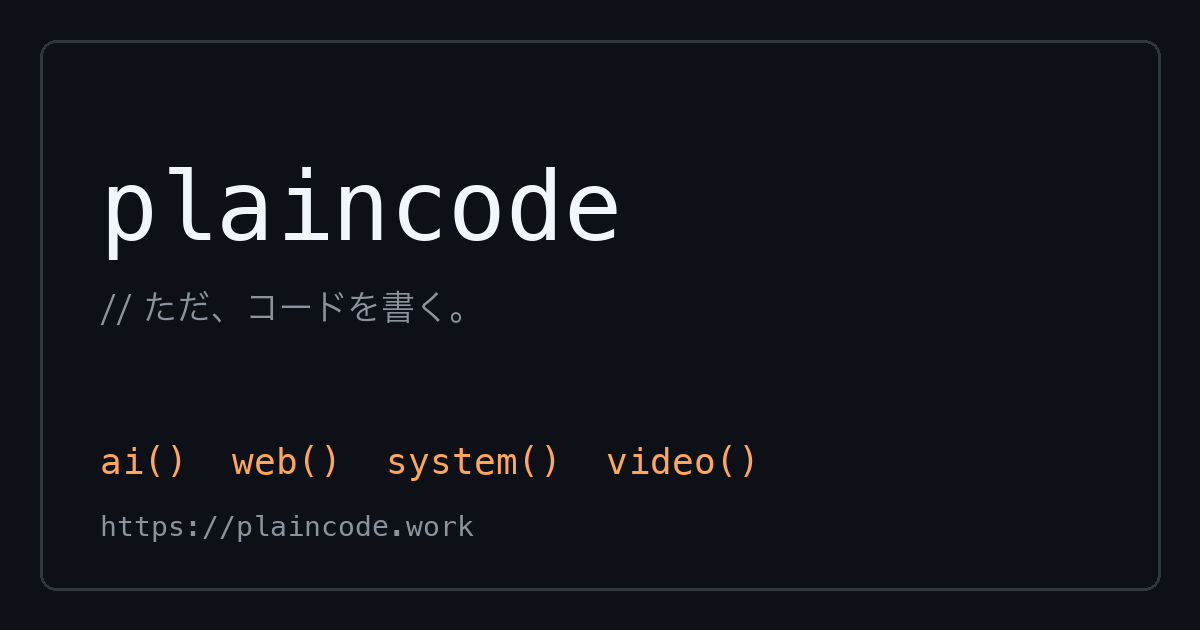
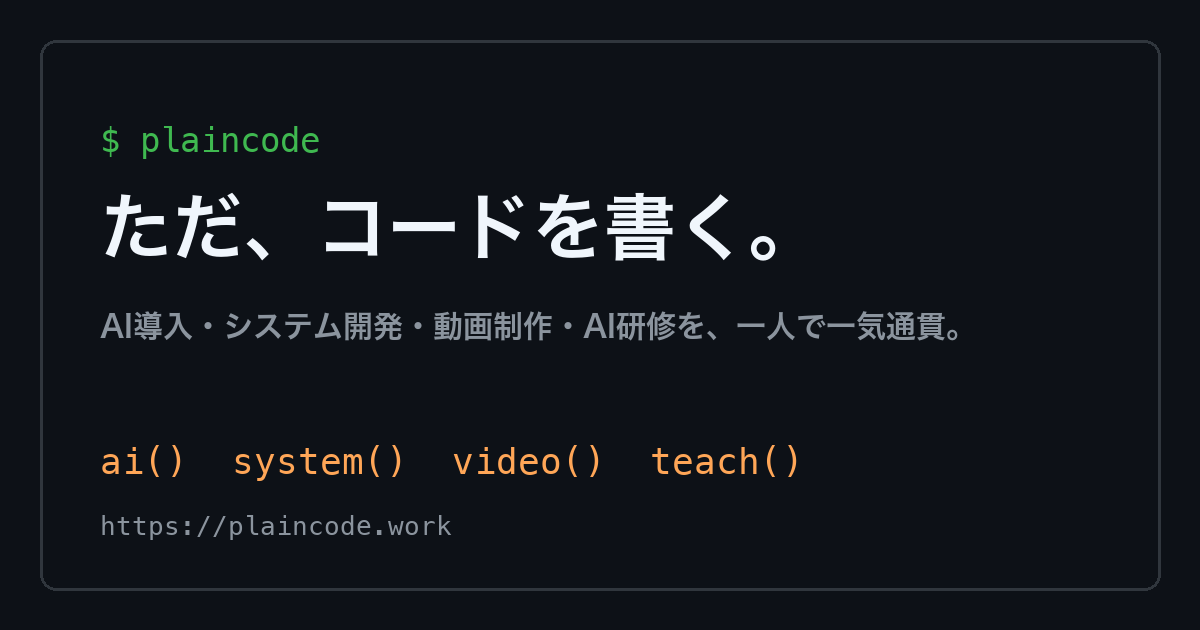
実サービス内容で全面改稿・デザイン刷新

diff --git a/index.html b/index.html
@@ -3,102 +3,247 @@
 <head>
 <meta charset="utf-8">
 <meta name="viewport" content="width=device-width, initial-scale=1">
-<title>plaincode</title>
-<meta name="description" content="plaincode は、色のないコーディングをします。流行りの技術ではなく、あなたの課題に最も素直な実装を選びます。AI導入支援・HP制作・システム開発・動画制作。">
+<title>plaincode — AI導入・システム開発・動画制作・AI研修</title>
+<meta name="description" content="plaincode（プレインコード）は、AI導入支援・Webサイト/業務システム開発・動画制作・AI研修を一人で一気通貫で行う東京のエンジニアリングスタジオです。流行りではなく、課題に最も素直な実装を選びます。">
 <link rel="canonical" href="https://plaincode.work/">
 <link rel="icon" href="/favicon.svg" type="image/svg+xml">
 <meta property="og:type" content="website">
-<meta property="og:title" content="plaincode">
-<meta property="og:description" content="色のないコーディングをします。">
+<meta property="og:title" content="plaincode — ただ、コードを書く。">
+<meta property="og:description" content="AI導入・システム開発・動画制作・AI研修。作る・売る・教えるを一人で一気通貫。">
 <meta property="og:url" content="https://plaincode.work/">
 <meta property="og:image" content="https://plaincode.work/og.png">
-<meta name="twitter:card" content="summary">
+<meta name="twitter:card" content="summary_large_image">
 <meta name="twitter:site" content="@masakundayo1994">
+<link rel="preconnect" href="https://fonts.googleapis.com">
+<link rel="preconnect" href="https://fonts.gstatic.com" crossorigin>
+<link href="https://fonts.googleapis.com/css2?family=JetBrains+Mono:wght@400;500&family=Noto+Sans+JP:wght@400;500;700&display=swap" rel="stylesheet">
 <style>
 :root{
-  --bg:#ffffff;--fg:#111111;--muted:#6b6b6b;--line:#e5e5e5;--accent:#111111;
-}
-@media (prefers-color-scheme:dark){
-  :root{--bg:#0d1117;--fg:#c9d1d9;--muted:#8b949e;--line:#30363d;--accent:#f0f6fc;}
+  --bg:#0d1117;--bg2:#161b22;--fg:#e6edf3;--muted:#8b949e;--line:#30363d;
+  --green:#3fb950;--orange:#ffa657;--blue:#58a6ff;
+  --mono:"JetBrains Mono",ui-monospace,Menlo,monospace;
+  --sans:"Noto Sans JP",system-ui,-apple-system,sans-serif;
 }
 *{box-sizing:border-box;margin:0;padding:0}
-html{font-size:16px;-webkit-text-size-adjust:100%}
-body{
-  background:var(--bg);color:var(--fg);
-  font-family:ui-monospace,"SF Mono","JetBrains Mono",Menlo,Consolas,monospace;
-  line-height:1.8;
-  padding:0 16px;
-}
-main{max-width:640px;margin:0 auto;padding:12vh 0 8vh}
-header h1{font-size:1rem;font-weight:400;letter-spacing:.02em}
-header h1 span{color:var(--muted)}
-.lead{margin-top:3rem;font-size:1.05rem}
-.lead p{margin-bottom:1.2rem}
-section{margin-top:4rem;padding-top:2rem;border-top:1px solid var(--line)}
-h2{font-size:.85rem;font-weight:400;color:var(--muted);margin-bottom:1.2rem}
-h2::before{content:"// "}
-pre{white-space:pre;overflow-x:auto;font-size:.95rem;line-height:1.7}
-.k{color:var(--muted)}
-ul{list-style:none}
-li{margin-bottom:.4rem}
-a{color:var(--fg);text-decoration:underline;text-decoration-color:var(--line);text-underline-offset:.25em}
-a:hover{text-decoration-color:var(--fg)}
-dl{display:grid;grid-template-columns:8em 1fr;row-gap:.4rem}
-dt{color:var(--muted)}
-footer{margin-top:5rem;font-size:.8rem;color:var(--muted)}
-@media (max-width:480px){dl{grid-template-columns:1fr}dt{margin-top:.6rem}}
+html{scroll-behavior:smooth;-webkit-text-size-adjust:100%}
+body{background:var(--bg);color:var(--fg);font-family:var(--sans);line-height:1.9;font-size:16px}
+a{color:inherit;text-decoration:none}
+.wrap{max-width:960px;margin:0 auto;padding:0 20px}
+.mono{font-family:var(--mono)}
+
+/* nav */
+nav{position:sticky;top:0;z-index:10;background:rgba(13,17,23,.85);backdrop-filter:blur(8px);border-bottom:1px solid var(--line)}
+nav .wrap{display:flex;align-items:center;justify-content:space-between;height:56px}
+nav .logo{font-family:var(--mono);font-weight:500;letter-spacing:.02em}
+nav .logo::after{content:"_";color:var(--green);animation:blink 1.2s steps(2) infinite}
+@keyframes blink{50%{opacity:0}}
+nav ul{display:flex;gap:22px;list-style:none;font-family:var(--mono);font-size:.82rem;color:var(--muted)}
+nav a:hover{color:var(--fg)}
+@media(max-width:600px){nav ul{display:none}}
+
+/* hero */
+.hero{padding:110px 0 90px;border-bottom:1px solid var(--line)}
+.hero .tag{font-family:var(--mono);color:var(--green);font-size:.85rem;margin-bottom:22px}
+.hero h1{font-family:var(--mono);font-weight:500;font-size:clamp(2.3rem,6vw,4rem);line-height:1.15;letter-spacing:-.01em}
+.hero h1 small{display:block;font-family:var(--sans);font-weight:400;font-size:clamp(1.05rem,2.4vw,1.4rem);color:var(--muted);margin-top:18px;letter-spacing:0}
+.hero p{max-width:600px;margin-top:34px;color:#c9d1d9}
+.hero .cta{display:inline-flex;align-items:center;gap:10px;margin-top:40px;padding:12px 20px;border:1px solid var(--line);border-radius:6px;font-family:var(--mono);font-size:.9rem;transition:.2s}
+.hero .cta:hover{border-color:var(--green);color:var(--green)}
+
+/* sections */
+section{padding:90px 0;border-bottom:1px solid var(--line)}
+.h2{font-family:var(--mono);font-size:.85rem;color:var(--muted);margin-bottom:14px}
+.h2::before{content:"// "}
+h2{font-size:clamp(1.5rem,3vw,2rem);font-weight:700;margin-bottom:40px;line-height:1.4}
+
+/* services */
+.grid{display:grid;grid-template-columns:repeat(2,1fr);gap:18px}
+@media(max-width:700px){.grid{grid-template-columns:1fr}}
+.card{background:var(--bg2);border:1px solid var(--line);border-radius:8px;padding:28px;transition:.2s}
+.card:hover{border-color:#484f58;transform:translateY(-2px)}
+.card .fn{font-family:var(--mono);font-size:.85rem;color:var(--orange);margin-bottom:10px}
+.card .fn span{color:var(--blue)}
+.card h3{font-size:1.15rem;font-weight:700;margin-bottom:12px}
+.card p{color:#c9d1d9;font-size:.95rem}
+.card ul{margin-top:14px;padding-left:0;list-style:none;font-size:.88rem;color:var(--muted)}
+.card li::before{content:"– ";color:var(--line)}
+
+/* approach */
+.steps{display:grid;grid-template-columns:repeat(3,1fr);gap:18px}
+@media(max-width:700px){.steps{grid-template-columns:1fr}}
+.step{padding:24px;border-left:2px solid var(--line)}
+.step .n{font-family:var(--mono);color:var(--green);font-size:.85rem;margin-bottom:8px}
+.step h3{font-size:1.05rem;margin-bottom:8px}
+.step p{color:var(--muted);font-size:.92rem}
+
+/* code block */
+pre{background:var(--bg2);border:1px solid var(--line);border-radius:8px;padding:24px;overflow-x:auto;font-family:var(--mono);font-size:.9rem;line-height:1.75;margin-top:40px}
+.c{color:var(--muted)}.k{color:#ff7b72}.t{color:var(--blue)}.s{color:#a5d6ff}
+
+/* facts */
+.facts{display:grid;grid-template-columns:repeat(4,1fr);gap:18px}
+@media(max-width:700px){.facts{grid-template-columns:repeat(2,1fr)}}
+.fact{padding:20px 0;border-top:1px solid var(--line)}
+.fact .v{font-family:var(--mono);font-size:1.7rem;color:var(--fg)}
+.fact .v em{font-style:normal;color:var(--green)}
+.fact .l{font-size:.85rem;color:var(--muted)}
+
+/* about */
+.about{display:grid;grid-template-columns:1.2fr 1fr;gap:40px}
+@media(max-width:700px){.about{grid-template-columns:1fr}}
+.about p{color:#c9d1d9;margin-bottom:16px}
+dl{display:grid;grid-template-columns:7em 1fr;row-gap:10px;font-size:.95rem}
+dt{color:var(--muted);font-family:var(--mono);font-size:.85rem;padding-top:3px}
+dd a{border-bottom:1px solid var(--line)}
+dd a:hover{border-color:var(--fg)}
+
+/* contact */
+.contact{text-align:center;padding:110px 0}
+.contact p{color:var(--muted);margin:0 auto 34px;max-width:520px}
+.btn{display:inline-block;padding:14px 28px;background:var(--fg);color:var(--bg);border-radius:6px;font-family:var(--mono);font-weight:500;transition:.2s}
+.btn:hover{background:var(--green)}
+.contact .sub{margin-top:20px;font-family:var(--mono);font-size:.85rem}
+.contact .sub a{color:var(--muted)}.contact .sub a:hover{color:var(--fg)}
+
+footer{padding:36px 0;font-family:var(--mono);font-size:.8rem;color:var(--muted);display:flex;justify-content:space-between;flex-wrap:wrap;gap:10px}
 </style>
 </head>
 <body>
-<main>
-<header>
-  <h1>plaincode <span>— ただ、コードを書く。</span></h1>
-</header>
 
-<div class="lead">
-  <p>plaincode は、色のないコーディングをします。</p>
-  <p>流行りの技術やベンダーの流儀ではなく、あなたの課題に最も素直な実装を選びます。難しい言葉で見せかけず、中身だけを分かりやすく届けます。</p>
-</div>
-
-<section>
-  <h2>services</h2>
-<pre><span class="k">interface</span> Services {
-  ai():     Solution  <span class="k">// AI導入支援・業務自動化</span>
-  web():    Site      <span class="k">// Webサイト・LP制作</span>
-  system(): Software  <span class="k">// 業務システム・ツール開発</span>
-  video():  Film      <span class="k">// 動画制作（応相談）</span>
-}</pre>
-</section>
-
-<section>
-  <h2>approach</h2>
+<nav><div class="wrap">
+  <a class="logo" href="#">plaincode</a>
   <ul>
-    <li>- 業務の整理から実装、使い方の定着まで一気通貫で伴走します</li>
-    <li>- 言語・フレームワーク・LLM は「動くか」「分かるか」で選びます</li>
-    <li>- 作ったコードは全て納品し、ブラックボックスにしません</li>
+    <li><a href="#services">services</a></li>
+    <li><a href="#approach">approach</a></li>
+    <li><a href="#about">about</a></li>
+    <li><a href="#contact">contact</a></li>
   </ul>
-</section>
+</div></nav>
 
-<section>
-  <h2>about</h2>
-  <dl>
-    <dt>屋号</dt><dd>plaincode（プレインコード）</dd>
-    <dt>代表</dt><dd>鈴木 元康 / Masayasu Suzuki</dd>
-    <dt>所在地</dt><dd>東京都</dd>
-    <dt>設立</dt><dd>2026年6月（個人事業として開業）</dd>
-  </dl>
-</section>
+<header class="hero"><div class="wrap">
+  <div class="tag">$ plaincode --version 2026.6.1</div>
+  <h1>ただ、コードを書く。<small>AI導入・システム開発・動画制作・AI研修を、一人で一気通貫。</small></h1>
+  <p>plaincode は、色のないコーディングをします。流行りの技術やベンダーの流儀ではなく、あなたの課題に最も素直な実装を選び、業務の整理から実装、そして使い方が定着するところまで伴走します。</p>
+  <a class="cta" href="#contact">相談する <span>→</span></a>
+</div></header>
 
-<section>
-  <h2>contact</h2>
-  <dl>
-    <dt>mail</dt><dd><a href="mailto:masayasusuzuki@plaincode.work">masayasusuzuki@plaincode.work</a></dd>
-    <dt>X</dt><dd><a href="https://x.com/masakundayo1994" rel="me noopener" target="_blank">@masakundayo1994</a></dd>
-    <dt>GitHub</dt><dd><a href="https://github.com/masayasusuzuki" rel="me noopener" target="_blank">masayasusuzuki</a></dd>
-  </dl>
-</section>
+<section id="services"><div class="wrap">
+  <div class="h2">services</div>
+  <h2>できること</h2>
+  <div class="grid">
+    <div class="card">
+      <div class="fn">ai(): <span>Solution</span></div>
+      <h3>AI導入・業務自動化</h3>
+      <p>社内AIプラットフォームの構想設計から構築まで。日々の作業をAIエージェントやチャットボットに任せ、人がやるべき仕事に時間を戻します。</p>
+      <ul>
+        <li>社内向けAIアシスタント／ナレッジ検索の構築</li>
+        <li>Slack・Discord 常駐エージェント、スプレッドシート×LLM の自動化</li>
+        <li>AIチャットボット・画像診断など既存サービスへのAI機能追加</li>
+      </ul>
+    </div>
+    <div class="card">
+      <div class="fn">system(): <span>Software</span></div>
+      <h3>Webサイト・業務システム開発</h3>
+      <p>企業サイトから管理画面、勤怠・請求、学習プラットフォームまで。フロント・バックエンド・DB・認証・インフラを一人で設計し、本番まで運びます。</p>
+      <ul>
+        <li>Next.js / React / TypeScript による高速なWebサイト・LP</li>
+        <li>Supabase・Firebase を使った業務システム・管理画面</li>
+        <li>CMS連携、SEO、Vercel での本番運用まで</li>
+      </ul>
+    </div>
+    <div class="card">
+      <div class="fn">video(): <span>Film</span></div>
+      <h3>動画制作・YouTube運用</h3>
+      <p>YouTube向け編集を100本以上納品。構成・編集・テロップから、生成AIを使った素材づくりまで。広告動画やチャンネル運用の伴走も行います。</p>
+      <ul>
+        <li>YouTube・Shorts・広告動画の編集（Premiere Pro / After Effects）</li>
+        <li>生成AI（画像・動画・音声）を組み込んだ制作</li>
+        <li>企画・KPI設計から改善提案まで</li>
+      </ul>
+    </div>
+    <div class="card">
+      <div class="fn">teach(): <span>Training</span></div>
+      <h3>AI研修・教育</h3>
+      <p>法人研修の設計から登壇、大学での特別講義、プログラミングスクールの講師・教材制作まで。「作れる人」が教えるから、現場で使える形で定着します。</p>
+      <ul>
+        <li>企業向け 生成AI・Claude Code 活用研修（100名規模の実績）</li>
+        <li>AIプログラミング講座の講師・カリキュラム／教材動画制作</li>
+        <li>導入後の社内定着支援</li>
+      </ul>
+    </div>
+  </div>
+</div></section>
 
-<footer>© 2026 plaincode</footer>
-</main>
+<section id="approach"><div class="wrap">
+  <div class="h2">approach</div>
+  <h2>作る・売る・教える、を一人で</h2>
+  <div class="steps">
+    <div class="step">
+      <div class="n">01</div>
+      <h3>業務を整理する</h3>
+      <p>ツールの話より先に、どこに時間が溶けているかを一緒に見ます。作らない、という結論も普通にあります。</p>
+    </div>
+    <div class="step">
+      <div class="n">02</div>
+      <h3>素直に実装する</h3>
+      <p>言語・フレームワーク・LLM は「動くか」「分かるか」で選びます。コードは全て納品し、ブラックボックスにしません。</p>
+    </div>
+    <div class="step">
+      <div class="n">03</div>
+      <h3>使える形で残す</h3>
+      <p>マニュアルと研修まで含めて、担当者が自分で回せる状態にしてから手を離します。</p>
+    </div>
+  </div>
+<pre><span class="k">interface</span> <span class="t">Plaincode</span> {
+  ai():     <span class="t">Solution</span>   <span class="c">// AI導入・業務自動化</span>
+  system(): <span class="t">Software</span>   <span class="c">// Webサイト・業務システム</span>
+  video():  <span class="t">Film</span>       <span class="c">// 動画制作・YouTube</span>
+  teach():  <span class="t">Training</span>   <span class="c">// AI研修・教育</span>
+}
+<span class="c">// ✔ all passed — 全部、一人で動くところまで。</span></pre>
+</div></section>
+
+<section><div class="wrap">
+  <div class="h2">facts</div>
+  <div class="facts">
+    <div class="fact"><div class="v"><em>1</em>人</div><div class="l">要件定義から本番リリースまで</div></div>
+    <div class="fact"><div class="v"><em>100</em>+</div><div class="l">納品した動画本数</div></div>
+    <div class="fact"><div class="v"><em>100</em>名</div><div class="l">法人研修の登壇規模</div></div>
+    <div class="fact"><div class="v"><em>2</em>系統</div><div class="l">SQL / NoSQL 両DBを本番運用</div></div>
+  </div>
+</div></section>
+
+<section id="about"><div class="wrap">
+  <div class="h2">about</div>
+  <h2>plaincode について</h2>
+  <div class="about">
+    <div>
+      <p>Claude Code、Codex、Kimi。AIコーディングツールにはそれぞれの「色」があります。plaincode はその色を全部落として、ただ単純にコードを書くことに向き合うために作った屋号です。</p>
+      <p>代表の鈴木元康は、マーケティング・動画制作の現場を経てエンジニアになりました。フロントからインフラ、AI統合まで一人で完結させつつ、教える仕事も続けています。</p>
+    </div>
+    <dl>
+      <dt>屋号</dt><dd>plaincode（プレインコード）</dd>
+      <dt>代表</dt><dd>鈴木 元康 / Masayasu Suzuki</dd>
+      <dt>所在地</dt><dd>東京都</dd>
+      <dt>開業</dt><dd>2026年6月</dd>
+      <dt>stack</dt><dd>TypeScript / Next.js / React / Supabase / Firebase / Vercel / Claude・Gemini・DeepSeek</dd>
+      <dt>links</dt><dd><a href="https://x.com/masakundayo1994" target="_blank" rel="me noopener">X</a> ／ <a href="https://github.com/masayasusuzuki" target="_blank" rel="me noopener">GitHub</a></dd>
+    </dl>
+  </div>
+</div></section>
+
+<section id="contact" class="contact"><div class="wrap">
+  <div class="h2" style="text-align:center">contact</div>
+  <h2>まずは、困っていることを聞かせてください</h2>
+  <p>「これAIでどうにかならない？」の段階で大丈夫です。作るべきかどうかから一緒に考えます。</p>
+  <a class="btn" href="mailto:masayasusuzuki@plaincode.work?subject=%E3%81%94%E7%9B%B8%E8%AB%87">メールで相談する</a>
+  <div class="sub"><a href="mailto:masayasusuzuki@plaincode.work">masayasusuzuki@plaincode.work</a></div>
+</div></section>
+
+<footer class="wrap">
+  <span>© 2026 plaincode</span>
+  <span>Tokyo, Japan</span>
+</footer>
+
 </body>
 </html>
